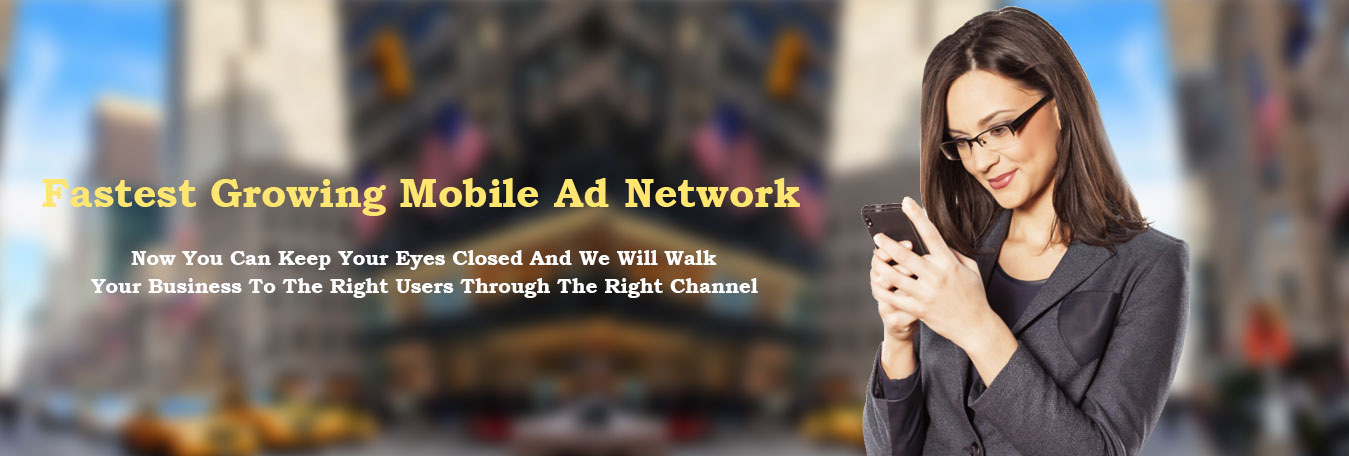
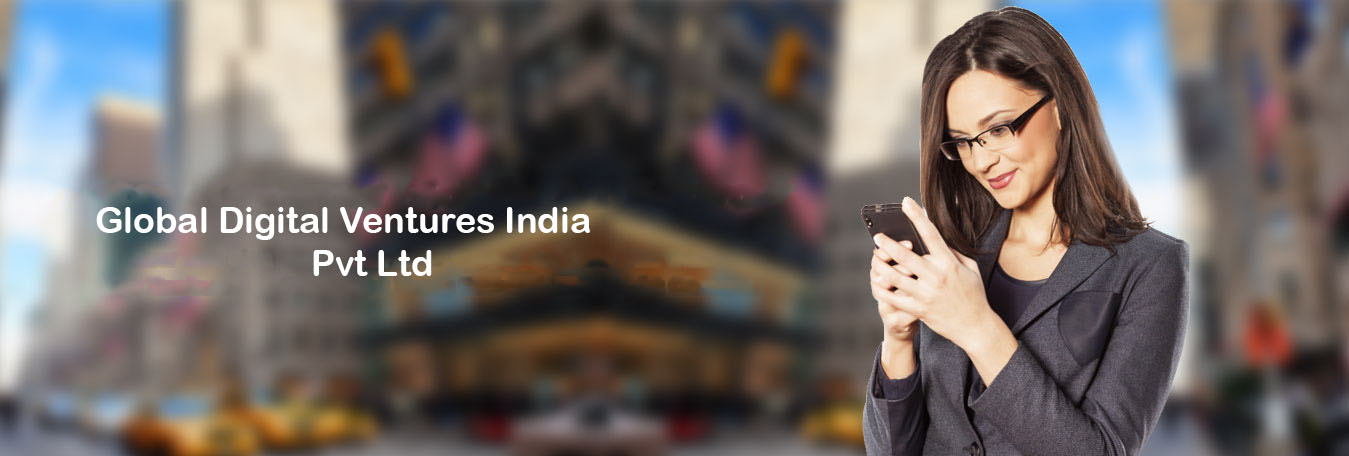
Second Commit

Changed region(s): [[0.0311, 0.3684, 0.5915, 0.5219], [0.0623, 0.5526, 0.5604, 0.6447]]

diff --git a/index.html b/index.html
@@ -7,7 +7,7 @@
         <meta charset="utf-8">
         <meta name="viewport"
 	content="width=device-width, initial-scale=1, maximum-scale=1">
-        <title>Global digital ventures india Pvt Ltd</title>
+        <title>Global Digital Ventures India Pvt Ltd</title>
         <link href="css/style.css" rel="stylesheet" type="text/css" media="all"/>
         <script src="js/jquery.min.js"></script>
         <script>
@@ -356,8 +356,8 @@
           <div class="top-header">
     <div class="container">
               <div class="logo">
-        <div class="lap" ><a href="index-2.html"><img src="images/logo.png" width="233" height="32" alt=""></a></div>
-        <div class="logo640"><img src="images/logo2.png" width="211" height="60" /></div>
+        
+        <div class="logo640"><img src="images/globla_logo.png" width="320" height="50" /></div>
       </div>
               <!--start-top-nav-->
               <nav class="top-nav">
@@ -367,7 +367,7 @@
                   <li style="margin-top:10px;"><a href="index-2.html#adv"><img src="images/advertiser.png" width="106" height="46"></a></li>
                   <li><a href="index-2.html#pub"><img src="images/publisher.png" width="89" height="40"></a></li>
                   <li><a href="#" target="_blank" ><img src="images/login.png" width="49" height="39"></a></li>
-                  <li class="signup-spc" style="margin-top:9px;"><a href="#" target="_blank"><img src="images/signup.png" width="76" height="45"></a></li>
+                  <li class="signup-spc" style="margin-top:9px;"><img src="images/signup.png" width="76" height="45"></li>
                   <li style="margin-top:10px;"><a href="index-2.html#cont"><img src="images/contact-us.png" width="111" height="46"></a></li>
                 </ul>
         <a href="#" id="pull"><img src="images/menu-icon.png" title="menu" /></a> </nav>
@@ -391,9 +391,9 @@
             <div u="slides" style="cursor: move; position: absolute; left: 0px; top: 0px; width: 1300px;
             height: 456px; overflow: hidden;">
 			  
-              <div> <a name="main"> <img u="image"  src="images/image1.1.jpg" /></a></div>
-              <div  > <img u="image" src="images/image1.jpg" /></div>
+              <div> <a name="main"> <img u="image"  src="images/image1.jpg" /></a></div>
               <div  > <img u="image" src="images/image2.jpg" /></div>
+              <div  > <img u="image" src="images/image1.1.jpg" /></div>
             
             </div>
             <!-- Bullet Navigator Skin Begin -->
@@ -419,7 +419,7 @@
           <div>
     <div class="about-heading" >ABOUT US</div>
   </div>
-          <div> <span class="about-heading2">Global digital ventures india Pvt Ltd - An Upcoming Global Ad Network</span> acts as a link between your app and the ad-space, providing your app with large volumes of active users through mobile ad channels. Our <br />
+          <div> <span class="about-heading2">Global Digital Ventures India Pvt Ltd - An Upcoming Global Ad Network</span> acts as a link between your app and the ad-space, providing your app with large volumes of active users through mobile ad channels. Our <br />
     experience in mobile marketing in which we have worked closely with various Advertisers, CPA networks, and Publishers <br />
     identify opportunities for improvement within the current system.</div>
           <div class="about-space"><span class="about-heading2">We Believe In Service Excellence, Innovation And Adaptability </span><br />
@@ -448,7 +448,7 @@
           </ul>
                 </div>
       </div>
-              <div class="usignup"><a href="#" target="_blank"><img src="images/signup2.gif" width="139" height="43" /></a></div>
+              <div class="usignup"><img src="images/signup2.gif" width="139" height="43" /></div>
             </div>
   </div>
         </div>
@@ -473,41 +473,31 @@
           </ul>
                 </div>
       </div>
-              <div class="signup2spc"><a href="#" name="cont" target="_blank"><img src="images/signup2.gif" width="139" height="43"  /></a></div>
+              <div class="signup2spc"><img src="images/signup2.gif" width="139" height="43"  /></div>
             </div>
   </div>
         </div>
 <div class="contact-us">
-          <div align="center"><img src="images/about-icon.png" width="101" height="30" /></div>
-          <div>
-    <div class="contact-left">
-              <h1>Get in touch with us:</h1>
-              <div class="forsales">For Sales & Business Enquiry
-              info@abc.com</div>
+<div class="contact-center">
+<div align="center"><img src="images/about-icon.png" width="101" height="30" /></div>
+<div class="ctxt">CONTACT US</div>
+
+          
+              <div align="center">
+              <h2 style="color:#FFF;">Get in touch with us:</h2>
+              <div class="forsales">
+              Email :-xyz@gmail.com<br />
+              Phone No :- 9898989898
+              </div>
               <h2 style="color:#FFF;">Corporate Office</h2>
              <div class="forsales"> Global digital ventures india Pvt Ltd<br />
 
               
  </div></div>
-    <div class="contact-right">
+ 
     
-    <div class="ctxt">CONTACT US</div>
     
-              <div class="field-box">
-        <input name="input"  class="field" id="name" type="text" value="" placeholder="Your complete name" />
-      </div>
-              <div class="field-box">
-        <input name="input2" type="text" id="email" class="field" value="" placeholder="Your Email-id" />
-      </div>
-              <div class="field-box">
-        <input type="text" class="field" id="company" value="" placeholder="Your company name" />
-      </div>
-              <div>
-        <textarea name="textarea" cols="" rows="" id="message" placeholder="Write Here to Us for any Query" class="textarea"></textarea>
-      </div>
-      		<div id="response"></div>
-              <div align="right" class="submit"><img id="submit" src="images/submit.gif" width="225" height="48" /></div>
-            </div>
+    
   </div>
         </div>
 <div class="iosbg">

diff --git a/css/style.css b/css/style.css
@@ -55,12 +55,12 @@
 .contact-left{width:322px; float:left; font-weight:bold; padding-left:28px; padding-top:50px; font-size:18px;}
 .contact-left h1{font-size:26px; color:#FFF;}
 .contact-left h2{font-size:26px; padding-top:20PX; color:ffffff;}
-.forsales{ background-color:#06292f; padding:9px; -webkit-border-radius: 8px ;
+.forsales{ padding:9px; -webkit-border-radius: 8px ;
 -moz-border-radius: 10px ;border-radius: 8px; 
-color:#FFF; font-size:18px; padding:20px; border:1px solid #2e7e8d;
+color:#FFF; font-size:18px; padding:20px;  margin-right:300px; margin-left:300px;
  }
-.ctxt{ width:360px; font-size:30px; color:#2eb1f6; text-align:right;
- border-bottom:1px solid #2eb1f6; margin-bottom:20px; margin-left:403px; }
+.ctxt{ width:200px; font-size:30px; color:#2eb1f6; text-align:right;
+ border-bottom:1px solid #2eb1f6; margin-bottom:20px; margin-left:570px; }
 
 
 
